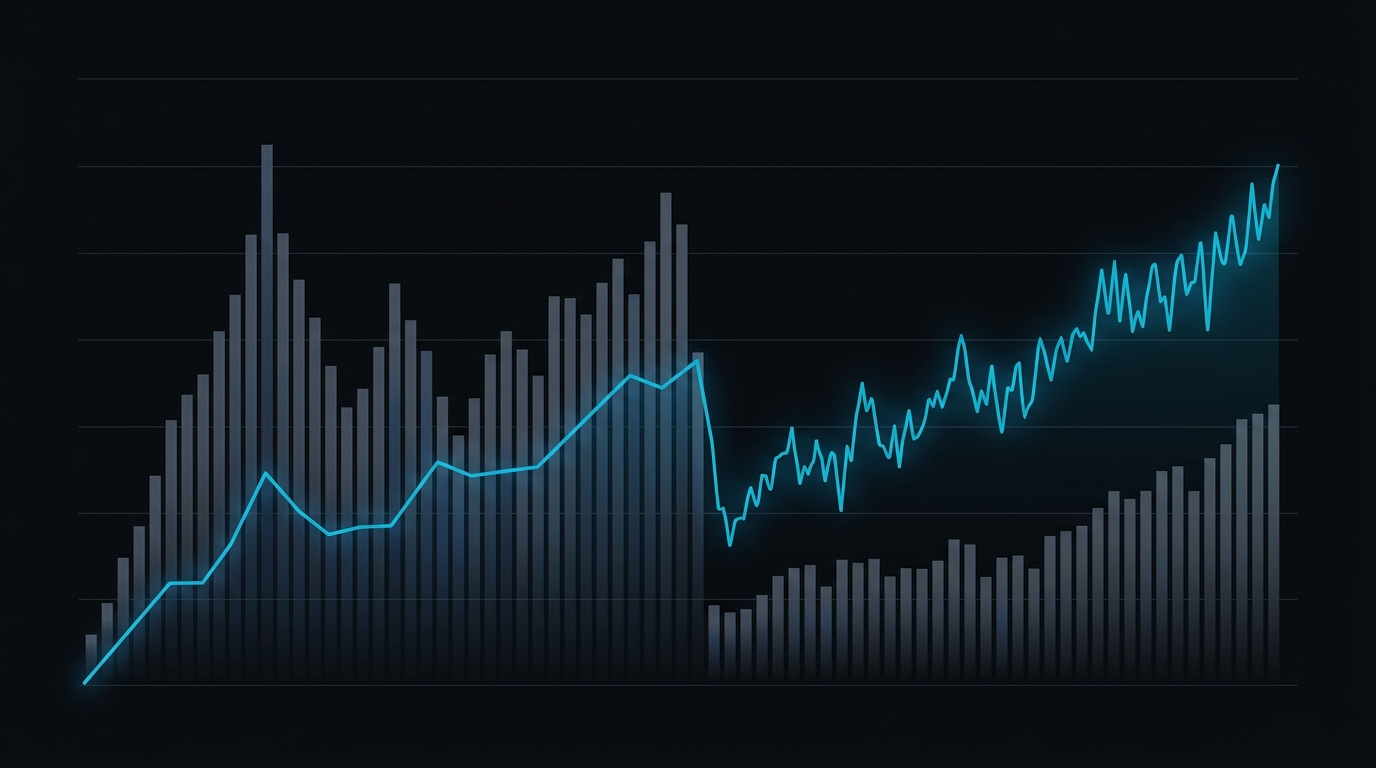
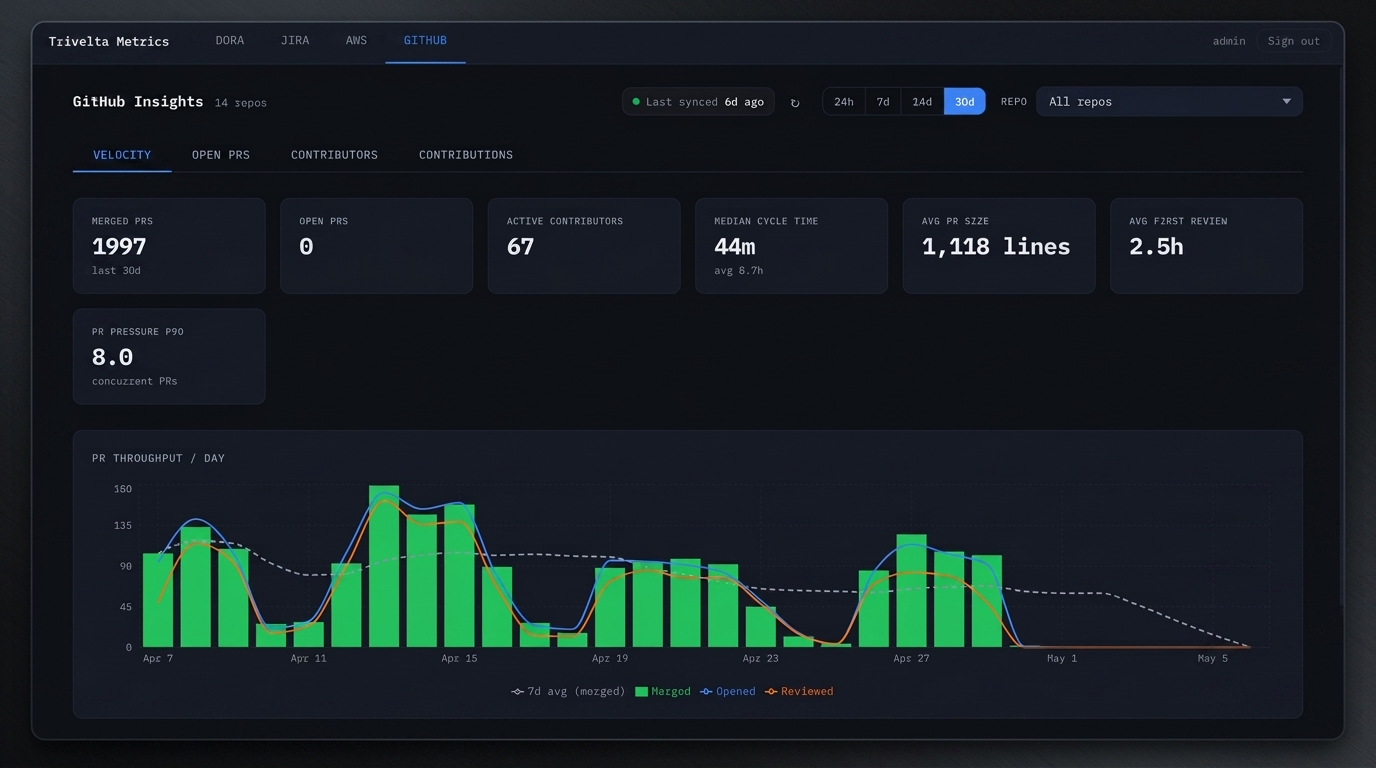
Update gh-insights gallery hero card photo (#13)
* Update gh-insights gallery hero card photo

* Update vibe-coders-guides author to Sam Clark

diff --git a/src/content/apps/vibe-coders-guides.md b/src/content/apps/vibe-coders-guides.md
@@ -10,7 +10,7 @@ live_url: https://vibe-coders-guides-production.up.railway.app
 repo_url: https://github.com/Trivelta-Vibe-Coders/trivelta-vibe-coders-guides
 hero_image: ../../assets/gallery/vibe-coders-guides/hero.jpeg
 portrait: false
-built_by: Connor Steeley
+built_by: Sam Clark
 shipped: "2026-05-04"
 order: 3
 blurb: >-